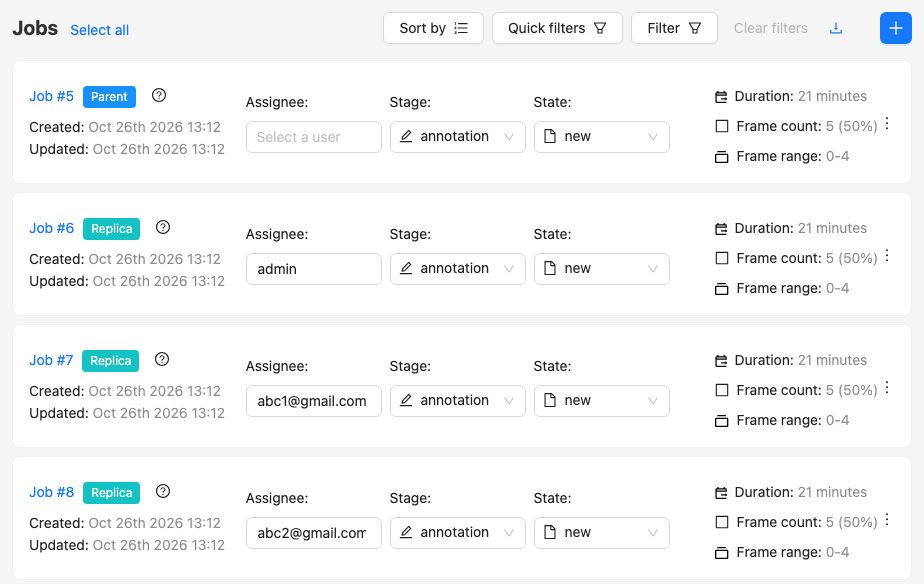
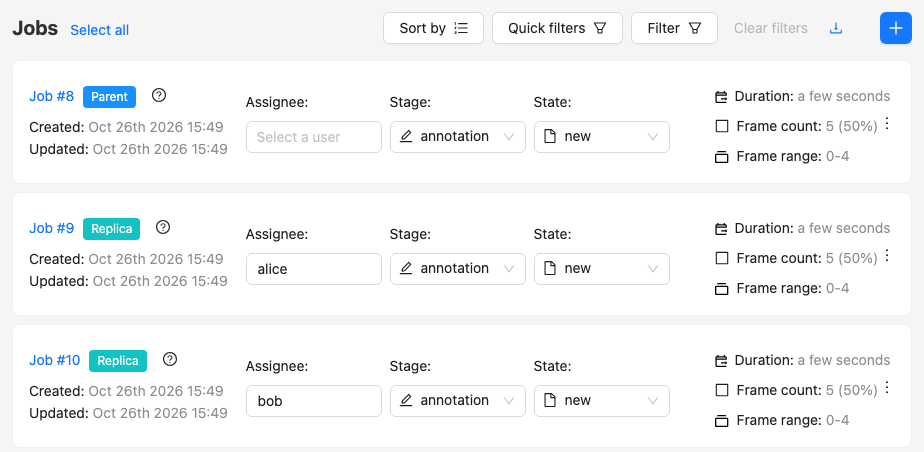
Maxim review feedback

diff --git a/site/content/en/docs/workspace/jobs-page.md b/site/content/en/docs/workspace/jobs-page.md
@@ -68,6 +68,83 @@ To clear all filters, select `Clear filters`.
 | `Job Type`     | `Annotation`, `Ground truth`, or `Replica`   | The type of the job |
 | `Parent ID`    | number or range of job ID                    | The ID of the parent annotation job of a replica job |
 
+## Replica jobs
+
+A **replica job** (_replica_) is a copy of an annotation job that is annotated separately.
+One of the ways to use replicas is
+{{< ilink "/docs/qa-analytics/consensus" "consensus-based annotation" >}}.
+_Replicas_ work similarly to regular annotation jobs - they can be assigned, annotated,
+imported and exported.
+
+Key properties of replica jobs:
+- _Replicas_ are connected to annotation jobs (_parent jobs_). Each annotation job can have
+  several related _replicas_.
+- Only annotation jobs can have replicas. Ground Truth jobs cannot have replicas.
+- Replicas use the same frame range as their parent annotation jobs.
+- Annotations in replicas and parent jobs are independent from each other.
+  Modifying a replica doesn't affect the parent job or other replicas and vice versa.
+  Removing annotations in a parent job doesn't change annotations in its replicas.
+- Replicas are not included in _task_ annotation import or export.
+  _Per-job_ import and export still work for all job types, including replicas.
+
+In the job list, parent jobs have the **Parent** tag and replicas have the **Replica** tag.
+By default, the task job list hides replicas. To see them, click **Clear filters**
+or use **Go to replicas** in the parent job **Actions** menu.
+To return from a replica to its parent job, use **Go to parent**.
+
+![Parent and replica jobs in the task job list](/images/consensus-replicas-list-task.png)
+
+### How to create replicas with a task
+
+You can set the number of replicas when you create a task.
+Each annotation job of the task gets this number of replicas.
+
+1. Go to the {{< ilink "/docs/workspace/tasks-page#create-annotation-task" "task creation" >}} page
+1. Configure basic and advanced parameters according to your requirements,
+   and attach a dataset to be annotated.
+1. Open the **Advanced** section and set **Initial replicas** to the number of
+   replicas for each annotation job. The default value `0` creates no replicas.
+
+   ![Initial replicas parameter](/images/consensus-replicas-task-parameter.png)
+
+1. Create the task and open the task page
+
+**Initial replicas** is used only when the task is created.
+To change the replicas later, [add](#how-to-add-replicas-to-existing-jobs) or
+[delete](#how-to-delete-replica-jobs) them in the jobs.
+
+### How to add replicas to existing jobs
+
+You can add replicas to any annotation job, including jobs of a task created without replicas.
+This way you can start consensus annotation in an existing task,
+or collect more opinions only for the jobs with difficult data.
+
+1. Open the task page or the **Jobs** page
+1. Select one or {{< ilink "/docs/workspace/bulk-actions" "several" >}} annotation jobs
+   and open the job **Actions** menu
+1. Click **Add replicas**
+1. Enter the number of replicas to add to each selected job and click **Add**
+
+   ![Add replicas dialog](/images/consensus-add-replicas-dialog.png)
+
+The new replicas have no assignee, and they are in the **annotation** stage and the **new** state.
+
+### How to delete replica jobs
+
+If a job has more replicas than you need, you can delete the extra ones.
+
+1. Open the task page or the **Jobs** page
+1. Select one or {{< ilink "/docs/workspace/bulk-actions" "several" >}} replica jobs
+   and open the job **Actions** menu
+1. Click **Delete** and confirm the deletion
+
+Deleting a replica also deletes its annotations. This operation cannot be undone.
+The parent job and its other replicas are not changed.
+
+{{% alert title="Note" color="primary" %}}
+Only replica and Ground Truth jobs can be deleted.
+{{% /alert %}}
+
 ## Distribute jobs among users
 
 You can assign several jobs to a list of users at once.
@@ -86,7 +163,14 @@ when two or more jobs are selected. It is not available in the
    - Start typing a username in the **Usernames** field and select the user from the list.
    - Paste several usernames into the **Usernames** field, for example, a column copied from a spreadsheet.
      The usernames can be separated by spaces, line breaks, commas, or semicolons.
-   - Click the upload area or drag a CSV file to it. The file must have one column with usernames.
+   - Click the upload area or drag a CSV file to it. The file must have one column with usernames,
+     without a header, for example, [usernames.csv](/files/usernames.csv):
+
+     ```csv
+     alice
+     bob
+     carol
+     ```
 
    Usernames that are not found and repeated usernames are skipped.
 

diff --git a/site/content/en/docs/qa-analytics/consensus.md b/site/content/en/docs/qa-analytics/consensus.md
@@ -78,88 +78,21 @@ annotation jobs - they can be assigned, annotated, imported and exported.
 When you decide to merge annotations from replicas, the results will be written to the
 parent annotation job.
 
-Key properties of replica jobs:
-- _Replicas_ are connected to annotation jobs (_parent jobs_). Each annotation job can have
-  several related _replicas_.
-- Only annotation jobs can have replicas. Ground Truth jobs cannot have replicas.
-- Replicas use the same frame range as their parent annotation jobs.
-- Annotations in replicas and parent jobs are independent from each other.
-  Modifying a replica doesn't affect the parent job or other replicas and vice versa.
-  Removing annotations in a parent job doesn't change annotations in its replicas.
-- Replicas are not included in _task_ annotation import or export.
-  _Per-job_ import and export still work for all job types, including replicas.
-
-In the job list, parent jobs have the **Parent** tag and replicas have the **Replica** tag.
-By default, the task job list hides replicas. To see them, click **Clear filters**
-or use **Go to replicas** in the parent job **Actions** menu.
-To return from a replica to its parent job, use **Go to parent**.
-
-  ![Parent and replica jobs in the task job list](/images/consensus-replicas-list-task.png)
-
-Read more about merging [here](#how-to-merge-all-replicas-in-a-task).
+Read more about replica jobs {{< ilink "/docs/workspace/jobs-page#replica-jobs" "here" >}}
+and about merging [here](#how-to-merge-all-replicas-in-a-task).
 
 ## Workflow
 
 When annotating with consensus, the typical workflow looks this way:
 
-1. [Create a task with replicas](#how-to-create-replicas-with-a-task) or
-  [add replicas](#how-to-add-replicas-to-existing-jobs) to the jobs of an existing task. Optionally,
+1. {{< ilink "/docs/workspace/jobs-page#how-to-create-replicas-with-a-task" "Create a task with replicas" >}} or
+  {{< ilink "/docs/workspace/jobs-page#how-to-add-replicas-to-existing-jobs" "add replicas" >}}
+  to the jobs of an existing task. Optionally,
   {{< ilink "/docs/workspace/tasks-page#create-annotation-task" "configure validation" >}}
 1. [Assign annotators](#how-to-assign-annotators-to-replicas) to the replicas,
   wait until all the jobs are completed
 1. Once all replicas in a parent job are completed, merge annotations
 1. Review and resolve problems in the parent jobs
-
-### How to create replicas with a task
-
-You can set the number of replicas when you create a task.
-Each annotation job of the task gets this number of replicas.
-
-1. Go to the {{< ilink "/docs/workspace/tasks-page#create-annotation-task" "task creation" >}} page
-1. Configure basic and advanced parameters according to your requirements,
-  and attach a dataset to be annotated.
-1. Open the **Advanced** section and set **Initial replicas** to the number of
-  replicas for each annotation job. The default value `0` creates no replicas.
-
-  ![Initial replicas parameter](/images/consensus-replicas-task-parameter.png)
-
-1. Create the task and open the task page
-
-**Initial replicas** is used only when the task is created.
-To change the replicas later, [add](#how-to-add-replicas-to-existing-jobs) or
-[delete](#how-to-delete-replica-jobs) them in the jobs.
-
-### How to add replicas to existing jobs
-
-You can add replicas to any annotation job, including jobs of a task created without replicas.
-This way you can start consensus annotation in an existing task,
-or collect more opinions only for the jobs with difficult data.
-
-1. Open the task page or the {{< ilink "/docs/workspace/jobs-page" "Jobs" >}} page
-1. Select one or {{< ilink "/docs/workspace/bulk-actions" "several" >}} annotation jobs
-  and open the job **Actions** menu
-1. Click **Add replicas**
-1. Enter the number of replicas to add to each selected job and click **Add**
-
-  ![Add replicas dialog](/images/consensus-add-replicas-dialog.png)
-
-The new replicas have no assignee, and they are in the **annotation** stage and the **new** state.
-
-### How to delete replica jobs
-
-If a job has more replicas than you need, you can delete the extra ones.
-
-1. Open the task page or the {{< ilink "/docs/workspace/jobs-page" "Jobs" >}} page
-1. Select one or {{< ilink "/docs/workspace/bulk-actions" "several" >}} replica jobs
-  and open the job **Actions** menu
-1. Click **Delete** and confirm the deletion
-
-Deleting a replica also deletes its annotations. This operation cannot be undone.
-The parent job and its other replicas are not changed.
-
-{{% alert title="Note" color="primary" %}}
-Only replica and Ground Truth jobs can be deleted.
-{{% /alert %}}
 
 ### How to assign annotators to replicas
 

diff --git a/site/content/en/docs/api_sdk/sdk/examples/jobs.md b/site/content/en/docs/api_sdk/sdk/examples/jobs.md
@@ -123,7 +123,7 @@ _Other SDK options:_
 | `Job.get_frame(frame_id: int, *, quality="original" \| "compressed")` | Return a single frame as a file-like object (`io.RawIOBase`) of image bytes. `quality` is an optional keyword argument (`"original"` or `"compressed"`); if omitted, the server default is used. |
 | `Job.download_frames(frame_ids: Sequence[int], outdir=".", quality="original", image_extension=None, filename_pattern="frame_{frame_id:06d}{frame_ext}")` | Save the given frames to disk under `outdir`. `image_extension` (e.g. `"png"`) overrides the auto-detected extension; `quality` is `"original"` or `"compressed"`. |
 | `Job.get_meta()` / `Job.get_labels()`                            | Read a job's frame metadata and label schema.                                                            |
-| `client.api_client.jobs_api.create(models.ReplicaJobCreateRequest(type="replica", task_id=..., parent_job_id=..., assignee=...))` | Add one {{< ilink "/docs/qa-analytics/consensus#replica-jobs" "replica job" >}} to an annotation job of the task. `assignee` is an optional user id. |
+| `client.api_client.jobs_api.create(models.ReplicaJobCreateRequest(type="replica", task_id=..., parent_job_id=..., assignee=...))` | Add one {{< ilink "/docs/workspace/jobs-page#replica-jobs" "replica job" >}} to an annotation job of the task. `assignee` is an optional user id. |
 | `client.api_client.jobs_api.destroy(job_id)`                     | Delete a replica or ground truth job together with its annotations. Annotation jobs cannot be deleted.   |
 
 _Notes:_

diff --git a/site/content/en/docs/annotation/annotation-editor/navbar.md b/site/content/en/docs/annotation/annotation-editor/navbar.md
@@ -69,7 +69,7 @@ with detailed descriptions provided in the table below.
 | **Search frame by filename**<br><br>![Search frame by filename](/images/navigation_search_icon.png) | Click to open the search pop-up. Type a frame filename to search for it within the job. Select the filename and press **Enter** to navigate to the selected frame. |
 | **Copy frame name**<br><br>![Copy frame name](/images/navigation_icons_copy_filename.png) | Click to copy frame name to the clipboard. |
 | **Copy frame link**<br><br>![Delete frame](/images/navigation_icons_copy_link.png) | Click to copy link to the frame. |
-| **Delete frame**<br><br>![Delete frame](/images/navigation_icons_delete_frame.png) | Click to delete or restore current frame. <br>Not available in {{< ilink "/docs/qa-analytics/consensus#replica-jobs" "replica jobs" >}}: delete or restore the frame in the parent annotation job. |
+| **Delete frame**<br><br>![Delete frame](/images/navigation_icons_delete_frame.png) | Click to delete or restore current frame. <br>Not available in {{< ilink "/docs/workspace/jobs-page#replica-jobs" "replica jobs" >}}. |
 
 ## Job information and Annotation Mode switcher
 

diff --git a/site/content/en/docs/api_sdk/sdk/examples/tasks.md b/site/content/en/docs/api_sdk/sdk/examples/tasks.md
@@ -207,7 +207,7 @@ _Other SDK options:_
 | `Task.export_dataset(..., location=Location.CLOUD_STORAGE, cloud_storage_id=<int>)` | Export straight to a registered cloud storage instead of downloading locally. |
 | `client.api_client.events_api.create_export(project_id=, job_id=, user_id=, _from=, to=)` | Scope or time-bound the event-log export beyond a single task. |
 | `data_params={"job_file_mapping": [[...], [...]]}` | Define each job's files explicitly instead of using `segment_size`. |
-| `TaskWriteRequest(..., initial_replicas=N)` | Create `N` {{< ilink "/docs/qa-analytics/consensus#replica-jobs" "replica jobs" >}} for each annotation job of the new task. |
+| `TaskWriteRequest(..., initial_replicas=N)` | Create `N` {{< ilink "/docs/workspace/jobs-page#replica-jobs" "replica jobs" >}} for each annotation job of the new task. |
 | `PatchedLabelRequest(name=..., type="polygon")` | Restrict a label to one shape type, as the per-label-group recipe does. |
 | `Job.get_frames_info()` | The frames a job really holds, names included. |
 

diff --git a/site/content/en/docs/workspace/bulk-actions.md b/site/content/en/docs/workspace/bulk-actions.md
@@ -29,8 +29,8 @@ for a group of jobs, without needing to update each resource individually.
 - **Update Assignee:** Assign a new user to multiple jobs, tasks, or projects.
 - **Distribute among users:** Assign selected jobs to a list of users in turn, see
   {{< ilink "/docs/workspace/jobs-page#distribute-jobs-among-users" "Distribute jobs among users" >}}.
-- **Add replicas:** Add replica jobs to selected annotation jobs for
-  {{< ilink "/docs/qa-analytics/consensus#how-to-add-replicas-to-existing-jobs" "consensus-based annotation" >}}.
+- **Add replicas:** Add replica jobs to selected annotation jobs, see
+  {{< ilink "/docs/workspace/jobs-page#how-to-add-replicas-to-existing-jobs" "Add replicas to existing jobs" >}}.
 - **Update State/Stage:** Change the status or stage for a group of jobs.
 - **Delete:** Remove multiple resources in one operation.
 - **Other field updates:** Depending on resource type, other fields may be updated in bulk.

diff --git a/site/content/en/docs/workspace/tasks-page.md b/site/content/en/docs/workspace/tasks-page.md
@@ -511,8 +511,7 @@ Thus, it is possible to mark corrupted frames that are not subject to annotation
 
 {{% alert title="Note" color="primary" %}}
 Frames cannot be deleted or restored in
-{{< ilink "/docs/qa-analytics/consensus#replica-jobs" "replica jobs" >}}.
-Delete or restore the frame in the parent annotation job, and its replicas get the same change.
+{{< ilink "/docs/workspace/jobs-page#replica-jobs" "replica jobs" >}}.
 {{% /alert %}}
 
 1. Go to the Job annotation view and click on the **Delete frame** button (**Alt**+**Del**).
